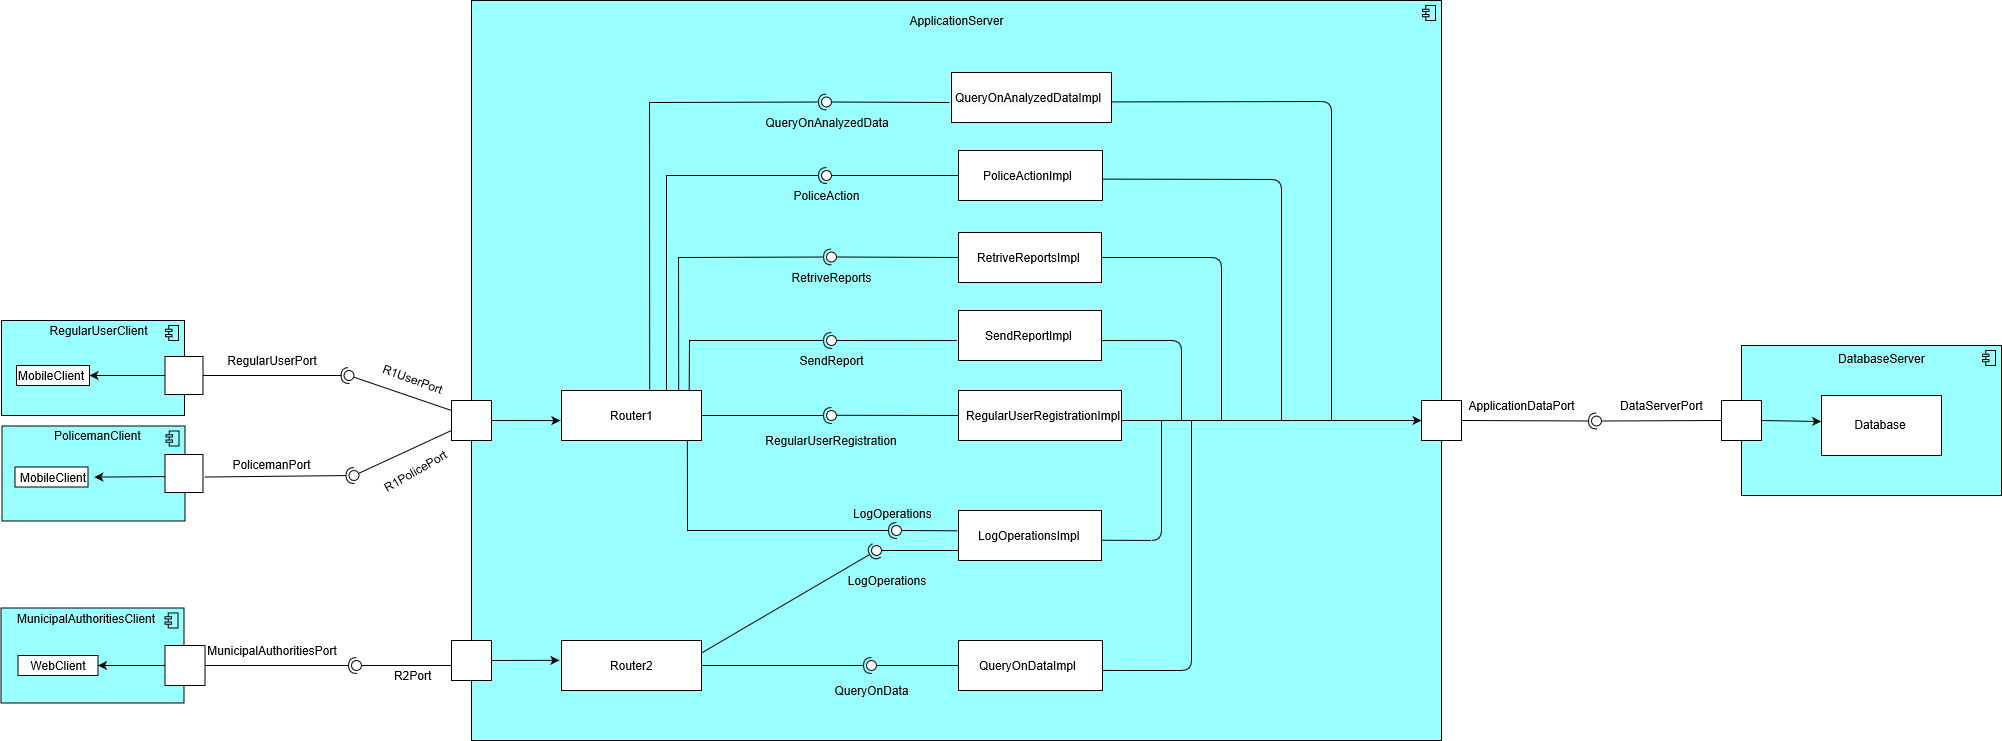
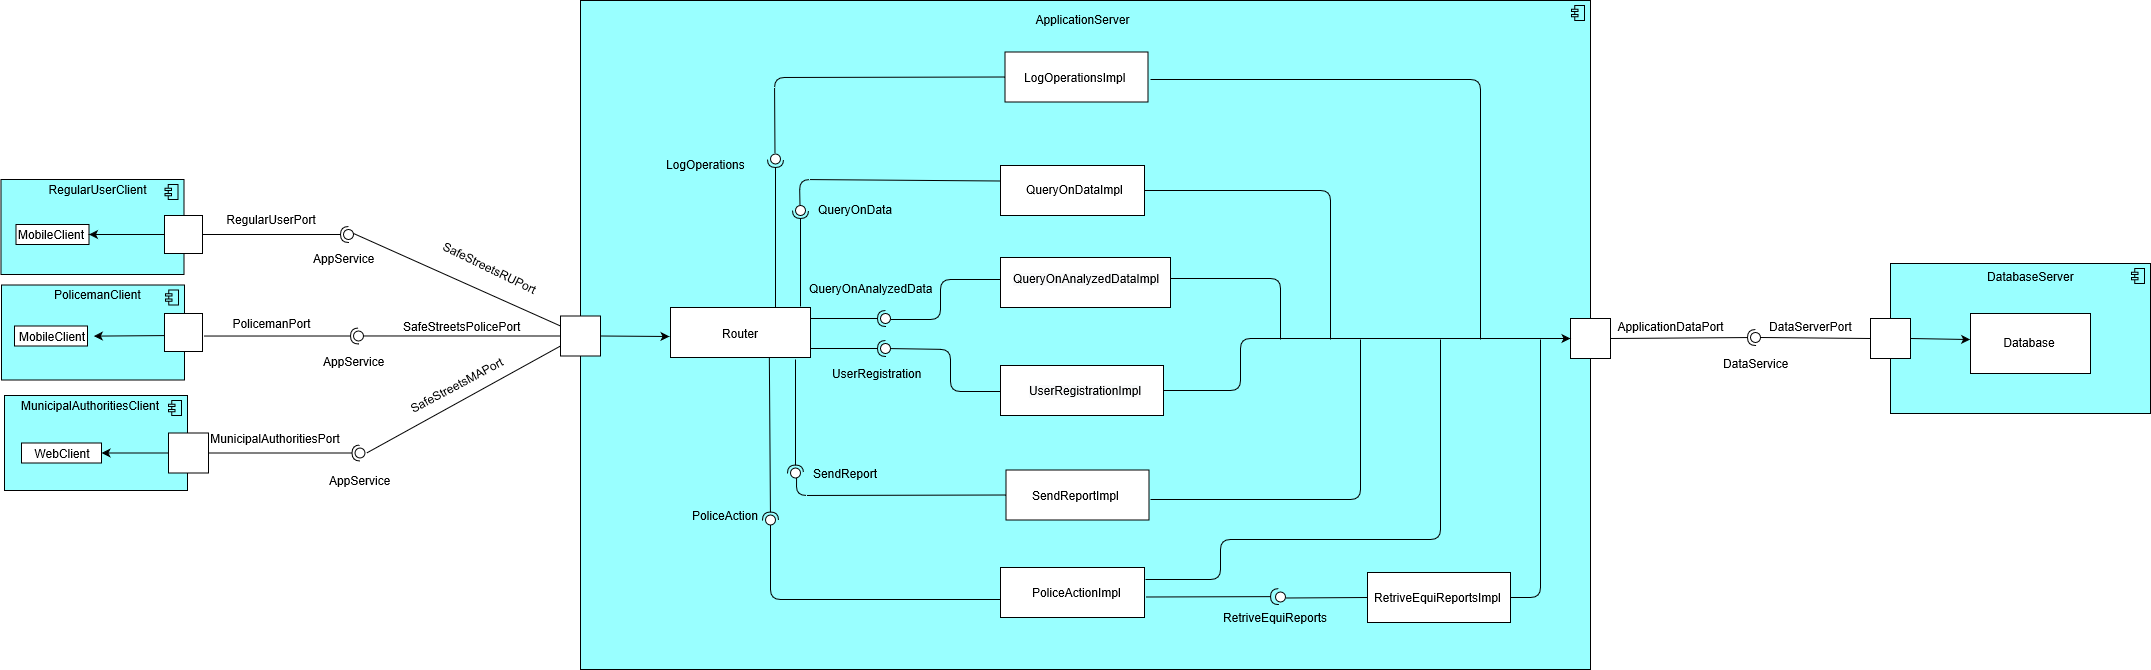
Corrections

diff --git a/DD/Files/architectural.tex b/DD/Files/architectural.tex
@@ -1,4 +1,4 @@
-\subsection{OVERVIEW}
+\subsection{Overview}
 Given the nature of the application, a three layer approach has been chosen.\newline
 \begin{figure}[h!]
 	\centering
@@ -13,9 +13,9 @@ As shown by the image above, the three layers consist in the presentation tier, 
 \item Data Tier: consists of the database server (where both user data and data generated by the application are stored), interacts only with the logic tier \newline
 \end{itemize}
 \newpage
-\subsection{COMPONENT VIEW}
-\subsubsection{INTRODUCTION}
-The following diagram represents the interface structure of the system, focusing on both the application server and the client structure. \newline
+\subsection{Component view}
+\subsubsection{Introduction}
+The following diagram represents the interface structure of the system, focusing on both the application server structure. \newline
 \begin{figure}[h!]
 	\centering
 	\includegraphics[width=\textwidth]{Images/component_diagram_beta}
@@ -23,18 +23,18 @@ The following diagram represents the interface structure of the system, focusing
 \end{figure}
 
 As shown above, the greatest part of the application logic is stored on the application server, while the clients just contain what is mandatory in order to contact the application server.
-\subsubsection{INTERFACES}
+\subsubsection{Interfaces}
 \begin{itemize}
-\item QueryOnAnalizedData: allows the users to access data about the reports in a certain area or other information analized by the MunicipalAuthorities
-\item PoliceAction: allows the policemen to take action such as noting themself as dispatched or noting a group of reportd as taken care of
-\item RetrieveReports: allows the police to retrieve reports submitted by the users
-\item SendReports: allows the user to submit reports
-\item RegularUserRegistration: allows the registration of new RegularUser profiles
+\item QueryOnAnalizedData: allows the regular users to access data about the reports in a certain area or other information analized by the MunicipalAuthorities
+\item PoliceAction: allows the policemen to take action such as noting themself as dispatched or noting a group of reports as taken care of
+\item RetrieveEquiReports: used by PoliceAction to find all reports that refer to the same violation that a particular report refers to
+\item SendReports: allows the user to submit reports about violations they encounter. Note that this action is the one upon the whole system is based in order to work properly
+\item RegularUserRegistration: allows the registration of new User profiles. Note that Police and MunicipalAuthorities profiles can only be created or deleted by the system administrator
 \item LogOperations: allows all kinds of users to login and logout of the application
-\item QueryOnData: allows MunicipalAuthority profiles to make queries on the collected data
+\item QueryOnData: allows MunicipalAuthority profiles to mine the collected data
 \end{itemize}
 The logic of the application works based on the afromentioned interfaces: they grant all the functionality needed to satisfy the system's goals.
-In the next two pictures more information about the system will be provided via a more accurate version of the class diagram presented in the RASD and a schema about the relationship between the classes interfaces and implementations of said interfaces
+In the next two pictures more information about the system will be provided via a more accurate version of the class diagram presented in the RASD and a schema about the relationship between the classes interfaces and implementations of said interfaces. Please note that the "Device" class and the classes that extend it are not reported in the diagram since they are not relevant to the purposes of this description. For any further information about this class refer to the Class diagram in the RASD.
 \newpage
 \begin{figure}[h!]
 	\centering
@@ -49,7 +49,7 @@ In the next two pictures more information about the system will be provided via 
 	\caption{Relation between interfaces and already specified classes}
 \end{figure}
 \newpage
-\subsubsection{DEPLOYMENT VIEW}
+\subsection{Deployment view}
 
 \begin{figure}[h!]
 	\centering
@@ -57,7 +57,7 @@ In the next two pictures more information about the system will be provided via 
 	\caption{Physical view}
 \end{figure}
 
-The image above shows the system's architecture from a phisical standpoint.
+The image above shows the system's architecture from a physical standpoint.
 Components:
 \begin{itemize}
 \item Smartphone: Device used by both RegularUser and Policeman users type to interact with the application. Two different clients will be developed: one for regular users, that will allow them to look at already analyzed data and submit reports, and a different one for policemen, that will allow the officers make reports (upon which they will take actions right away) and take actions on reports
@@ -65,4 +65,5 @@ Components:
 \item Application server: this server contains the application logic and will interact with the different clients in a client-server way.
 \item DatabaseServer: this server contains the actual data, both about the registered users and related to the user submitted reports, the actions taken by the police and the results of the data mining operations done by municipal authorities
 \end{itemize}
+Please note that Google servers have not been included, since those servers will not be involved in the system deployment
 
